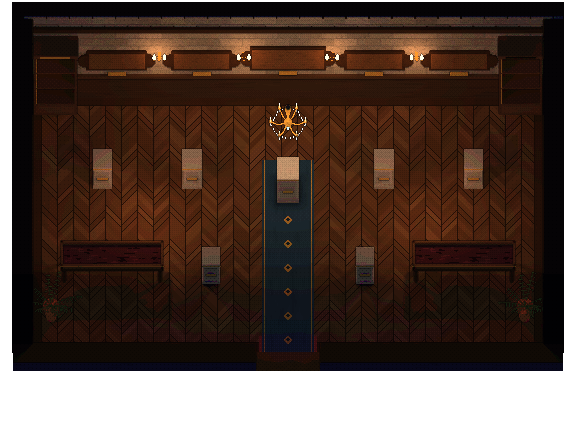
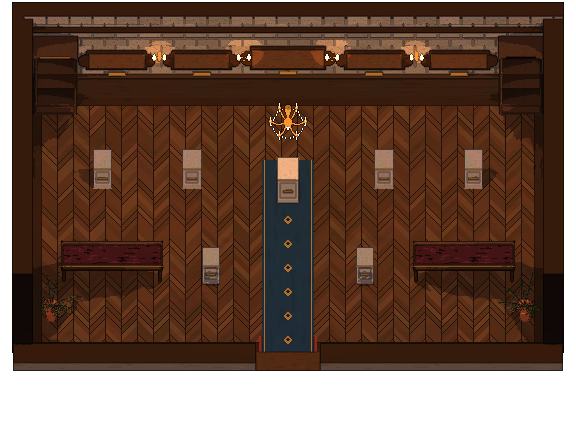
The Hall of Finds re-rendered in the toy finish: its chandelier and sconces stay lit, and a warm ambient with softer lamps keeps the floor in one even band instead of dark shapes
Claude-Session: https://claude.ai/code/session_018nrKRFmqoRAiZo7miU6eXz

diff --git a/tools/bridge-art/scenes/lumar_holm_hall.py b/tools/bridge-art/scenes/lumar_holm_hall.py
@@ -48,7 +48,7 @@ for i, (x, legend) in enumerate(((3.65, 'old_mossback'), (6.3, 'crownfin'), (9.0
     k.box(x - 0.28, 2.04, z - h - 0.2, x + 0.28, 2.08, z - h - 0.06, (E.GILT, 0.06), 'plate', bevel=0.01)
     SPOTS.append([legend, x, 2.09, z, 'board'])
 for x in (4.98, 7.62, 10.38, 13.02):
-    E.sconce(k, x, 2.0, z=1.85, energy=7.0)
+    E.sconce(k, x, 2.0, z=1.85, energy=3.0)
 k.box(1.0, 1.98, H - 0.42, 17.0, 2.12, H - 0.3, (OAK_D, 0.1), 'cornice')
 
 # ---- the plinths: the Lantern Beyond in the middle on the tallest, the deep's trophies and the rarest finds round it ---
@@ -99,10 +99,10 @@ for (x, r) in ((1.6, 8.9), (16.4, 8.9)):                 # a palm in each front 
     E.potted_palm(k, x, r)
     k.solid(x - 0.3, r - 0.3, x + 0.3, r + 0.3)
 E.chandelier(k, 9.0, 5.0, H - 0.4, rad=0.55, arms=6, tiers=1, chain_top=H, energy=70.0)
-A.hanging_lamp(k, 4.6, 6.0, energy=55, visible=False)
-A.hanging_lamp(k, 13.4, 6.0, energy=55, visible=False)
+A.hanging_lamp(k, 4.6, 6.0, energy=20, visible=False)
+A.hanging_lamp(k, 13.4, 6.0, energy=20, visible=False)
 k.render(OUT, light_states={'full': {'flicker': 1.0}, 'dim': {'flicker': 0.75}}, light_samples=int(os.environ.get('SCENE_SAMPLES', 128)),
-         world_light=('#343a50', 0.42))
+         world_light=('#5a4a40', 2.0))     # a warm ambient keeps the floor in one band of the toy finish
 
 w = json.load(open(WORLD)) if os.path.exists(WORLD) else {}
 w.update({'name': 'The Hall of Finds', 'width': COLS, 'height': ROWS, 'tileSize': 16, 'tileset': 'lumar',
